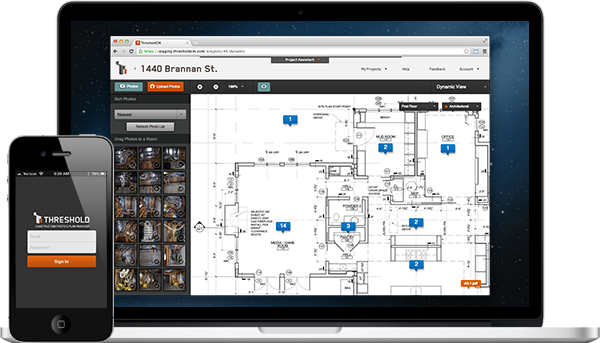
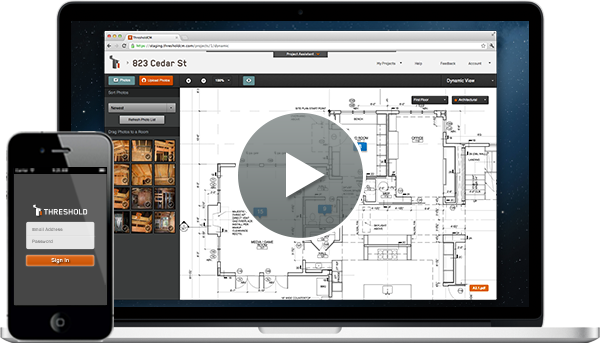
added demo video

diff --git a/public/index.html b/public/index.html
@@ -36,7 +36,7 @@
       <section>
         <div class="container">
           <section class="hero row-fluid">
-            <div class="span8 hero-laptop hidden-phone">&nbsp;</div>
+            <div class="span8 hero-laptop hidden-phone" id="toggle-video">&nbsp;</div>
             <div class="span4 hero-laptop-text">
               <p>
                 Threshold is the fastest and most comprehensive way to document your jobsite. And now you can <strong>photograph</strong>, <strong>organize</strong>, and <strong>send</strong> your progress photos to Threshold right from your mobile device. It's completely <strong>free</strong> with every Threshold project.
@@ -145,8 +145,31 @@
         </p>
       </div>
     </footer>
+
+    <div class="modal hide fade" id="myModal" style="width:1024px; height:576px; margin-left:-512px; margin-top:-300px">
+      <div class="modal-body" style="padding:0px; height:576px; max-height:576px; overflow:hidden;">
+        <object width="1024" height="576">
+          <param name="allowfullscreen" value="true" />
+          <param name="allowscriptaccess" value="always" />
+          <param name="movie" value="http://vimeo.com/moogaloop.swf?clip_id=53952420&amp;server=vimeo.com&amp;color=00adef&amp;fullscreen=1&amp;title=0&amp;byline=0&amp;portrait=0&amp;badge=0&amp;autoplay=1" />
+          <embed src="http://vimeo.com/moogaloop.swf?clip_id=53952420&amp;server=vimeo.com&amp;color=00adef&amp;fullscreen=1&amp;title=0&amp;byline=0&amp;portrait=0&amp;badge=0&amp;autoplay=1" type="application/x-shockwave-flash" allowfullscreen="true" allowscriptaccess="always" width="1024" height="576"></embed>
+        </object>
+      </div>
+    </div>
+
     <script src="http://code.jquery.com/jquery-latest.js"></script>
     <script src="js/bootstrap.min.js"></script>
+
+    <!-- Video -->
+    <script type="text/javascript">
+      $().ready(function() {
+        $('#toggle-video').click(function() {
+          $('#myModal').modal()
+          // $f(($('#demo-video')[0]).api('pause')
+        });
+      });
+    </script>
+
     <!-- Analytics -->
     <script type="text/javascript">
       var _gaq = _gaq || [];

diff --git a/public/css/website.css b/public/css/website.css
@@ -299,6 +299,7 @@ div.header-title h1, div.header-title h2 {
 }
 section.hero .hero-laptop {
   height: 340px;
+  cursor: pointer;
   background: url('../img/computer.png') left -3px no-repeat;
 }
 section.hero .hero-laptop-text {
